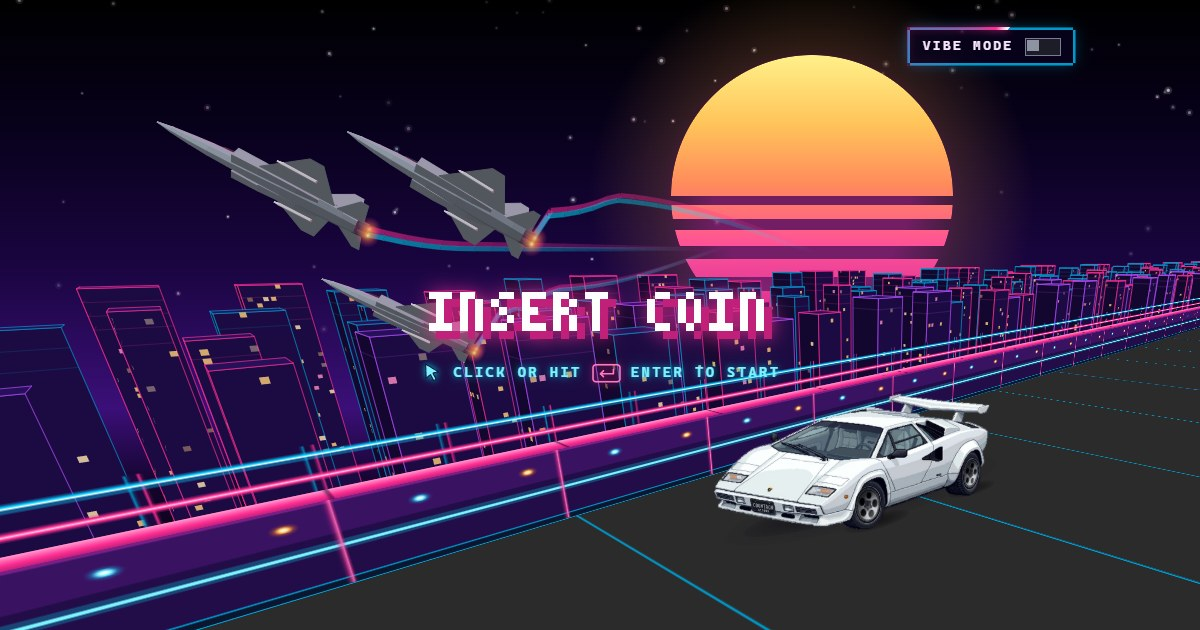
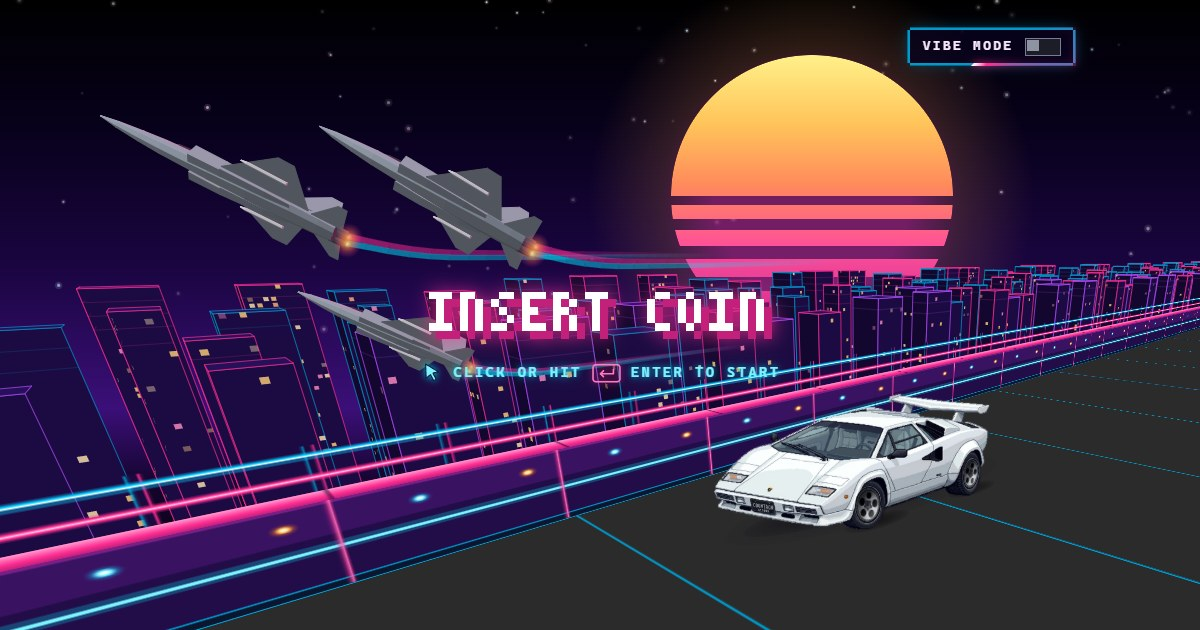
fix: contrails

diff --git a/lib/lambo.js b/lib/lambo.js
@@ -2437,11 +2437,11 @@ class FnLambo extends HTMLElement {
     const pos = frame(false);
     const P = [0, 0, 0];
     const at = new Array(12).fill(0);
-    const atSteady = new Array(12).fill(0);
     // The jets: one, or a V of three (see flyJet), each where the lead is but offset `m` (a, l, b, in metres like the
     // model). The offsets are in the lead's frame without its barrel roll (`steady`), so the V keeps its shape through the
     // roll while each jet rolls about its own length, turned the way `pos` says. (In the rolled frame, the wingmen swung
-    // round the lead.) `put` places a model point (a, l, b) on jet `m`, into out[o..o+2].
+    // round the lead.) `put` places a model point (a, l, b) on jet `m`, turned as `turned` says and offset in the frame
+    // `still`, into out[o..o+2].
     const jets = jet.formation ? FnLambo.jetFormation : [[0, 0, 0]];
     const steady = jets.length > 1 ? frame(true) : pos;
     const put = (turned, still, m, a, l, b, out, o) => {
@@ -2457,11 +2457,10 @@ class FnLambo extends HTMLElement {
     const trail = FnLambo.jetTrail;
     const back = jet.s - model.length * k; // how far along the path the nozzles are
     FnLambo.jetPath(jet, back - trail, at);
-    FnLambo.jetPath(jet, back - trail, atSteady, true);
     const off = jet.high ? () => S[0] > this.cityCtx.canvas.width / g.k + 20 : () => S[0] < 0 || S[1] < -20;
     if (
       jets.every((m) => {
-        put(at, atSteady, m, 0, 0, 0, P, 0);
+        put(at, steady, m, 0, 0, 0, P, 0);
         return !proj(P[0], P[1], P[2], 0) || off();
       })
     ) {
@@ -2472,7 +2471,9 @@ class FnLambo extends HTMLElement {
     // Two neon contrails from each jet, one from each nozzle, back along the path the jets have flown (so they curve where
     // they pulled up), fading out: drawn in short pieces, each a little fainter, and each as wide as the perspective makes
     // it there (with square ends: round ones overlapped where the pieces meet, and the doubled up see-through colour made
-    // a row of beads). All of them first, so they pass behind every jet.
+    // a row of beads). All of them first, so they pass behind every jet. A wingman's are the lead's, moved by where it is
+    // in the V now: so the three run side by side along the curve they flew. (Traced through where each wingman had been,
+    // they kinked and climbed, as the V tipped with the lead's bank and rolled level with it.)
     ctx.lineCap = "butt";
     const pieces = 24;
     for (const m of jets)
@@ -2484,8 +2485,7 @@ class FnLambo extends HTMLElement {
           // the nozzles have been is a little way from where they are)
           if (j) {
             FnLambo.jetPath(jet, back - (trail * j) / pieces, at);
-            if (jets.length > 1) FnLambo.jetPath(jet, back - (trail * j) / pieces, atSteady, true);
-            put(at, jets.length > 1 ? atSteady : at, m, a, 0, b, P, 0);
+            put(at, steady, m, a, 0, b, P, 0);
           } else put(pos, steady, m, a, l, b, P, 0);
           const ok = proj(P[0], P[1], P[2], 0);
           if (ok && prev) {
